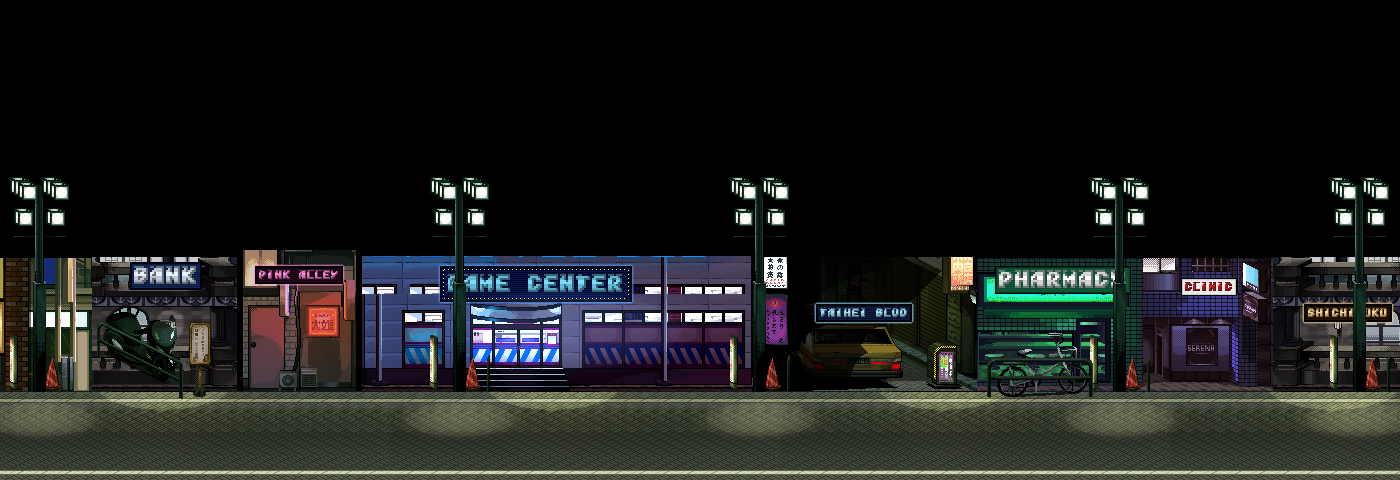
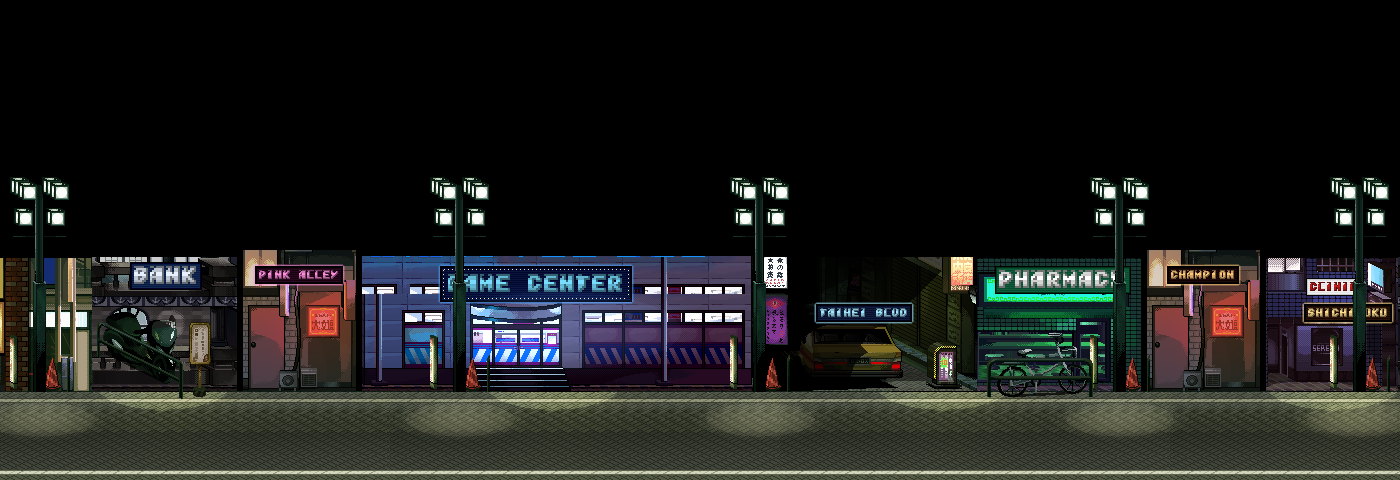
Kamurocho's map from the picture of Yakuza 0's map given for it
tools/build-kamurocho-map.py brings the picture down to the map screen (roads, blocks, West Park and the coloured
buildings, its names left out); the streets' lines follow its roads, with stops where their turnings aren't even;
eighteen numbered names. The Champion District now opens off Senryo Avenue, as on that map.

Claude-Session: https://claude.ai/code/session_01No5GwW2AvnCcQDGrNA3TLc

Changed region(s): [[0.7986, 0.5, 1.0, 0.8125]]

diff --git a/data/kamurocho-street.js b/data/kamurocho-street.js
@@ -33,41 +33,38 @@ window.KAMUROCHO_STREET = {
     grunt: ["This is Tojo turf. Pay up.", "The family don't like strangers."],
     shakedown: ["Hand over your cash, kid.", "Everybody pays Mr. Shakedown."]
   },
-  // The map (the start menu's MAP, ui/game.js realmMap), Yakuza 0's: the town's blocks in grey, its streets dark
-  // between them, West Park in blue at the top, its numbers on it and their names down the side; the street you're
-  // on lit, and you a blinking mark along it, as far along as you've walked. Its points are as on Yakuza 0's map
-  // (a picture of it 561x434, the town in x 60-392, y 45-400; drawn at 0.43). `outline`: the town's edge; `park`
-  // and `buildings` (x0, y0, x1, y1); `legend`: each number, its name, the scene it's of (or none) and where it's
-  // written on the map. Each scene: its line (its picture's left end first) and how wide (`w`, on the screen); a
-  // place inside one (a shop, a bar) is a spot on the line of the street it's off (`at`: that scene, and how far
-  // along it).
+  // The map (the start menu's MAP, ui/game.js realmMap), Yakuza 0's: the picture of its map given for the game,
+  // brought down to the screen (tools/build-kamurocho-map.py: `picture`, its top left where it was cut from the
+  // big one, `crop`, and how much smaller, `scale`), its numbers on it and their names down the side; the street
+  // you're on lit, and you a blinking mark along it, as far along as you've walked; a red flag where the story's
+  // headed. Its points are the big picture's (1514x1039). `legend`: each number, its name, the scene it's of (or
+  // none) and where it's written on the map. Each scene: its line (its picture's left end first), how wide (`w`, on
+  // the screen) and, where its turnings aren't evenly along it, `stops` (how far along its picture, how far along
+  // its line); a place inside one (a shop, a bar) is a spot on the line of the street it's off (`at`).
   map: {
-    outline: [[62, 120], [82, 75], [140, 62], [190, 50], [362, 50], [372, 140], [374, 382], [352, 398], [140, 398], [114, 376], [88, 282], [60, 252]],
-    park: [195, 50, 362, 137],
-    buildings: [[62, 176, 90, 214], [127, 172, 157, 192], [165, 182, 182, 205], [157, 120, 175, 140], [300, 150, 317, 167],
-      [252, 106, 262, 116], [318, 352, 326, 360], [210, 340, 222, 352], [262, 288, 272, 298]],
-    legend: [[1, "Tenkaichi St.", "tenkaichi", [133, 332]], [2, "Nakamichi St.", "nakamichi", [202, 340]], [3, "Theater Alley", "theater-alley", [99, 236]],
-      [4, "Taihei Blvd.", "taihei", [180, 254]], [5, "Theater Square", "theater", [184, 198]], [6, "Shichifuku E.", "shichifuku", [272, 178]],
-      [7, "Shichifuku St.", "shichifuku", [226, 160]], [8, "Shichifuku W.", "shichifuku", [118, 154]], [9, "Hotel District", "hotels", [156, 90]],
-      [10, "West Park", null, [272, 86]], [11, "Kamuro Shopping", "street", [256, 250]], [12, "Empty Lot", "alley", [243, 214]],
-      [13, "Pink Street", "pink", [330, 312]], [14, "Champion Dist.", "champion", [344, 236]], [15, "Showa Street", "showa", [250, 375]],
-      [16, "Senryo Ave.", "senryo", [354, 296]], [17, "Nakamichi Alley", "nakamichi-alley", [160, 344]], [18, "Pink Alley", "pink-alley", [332, 346]]],
+    picture: { image: "assets/kamurocho/map.png", crop: [355, 34], scale: 0.1765, at: [2, 2] },
+    legend: [[1, "Hotel District", "hotels", [470, 220]], [2, "West Park", null, [900, 190]], [3, "Park Blvd.", null, [820, 368]],
+      [4, "Shichifuku St.", "shichifuku", [760, 404]], [5, "Theater Square", "theater", [535, 500]], [6, "Theater Alley", "theater-alley", [440, 520]],
+      [7, "Kamuro Shopping", "street", [700, 500]], [8, "Empty Lot", "alley", [640, 548]], [9, "Little Asia", null, [898, 520]],
+      [10, "Champion Dist.", "champion", [1025, 520]], [11, "Taihei Blvd.", "taihei", [755, 668]], [12, "Tenkaichi St.", "tenkaichi", [545, 800]],
+      [13, "Nakamichi St.", "nakamichi", [660, 800]], [14, "Pink Street", "pink", [818, 780]], [15, "Senryo Ave.", "senryo", [925, 790]],
+      [16, "Showa Street", "showa", [780, 880]], [17, "Nakamichi Alley", "nakamichi-alley", [630, 745]], [18, "Pink Alley", "pink-alley", [895, 745]]],
     scenes: {
-      taihei: { line: [[95, 266], [368, 266]], w: 5 },
-      tenkaichi: { line: [[142, 266], [142, 389]], w: 3 },
-      nakamichi: { line: [[197, 266], [197, 389]], w: 3 },
-      showa: { line: [[142, 389], [368, 389]], w: 3 },
-      pink: { line: [[303, 389], [311, 266], [314, 190]], w: 3 },
-      senryo: { line: [[368, 389], [368, 190]], w: 4 },
-      shichifuku: { line: [[92, 165], [205, 165], [240, 175], [240, 190], [368, 190]], w: 3 },
-      hotels: { line: [[145, 165], [145, 68], [185, 68], [185, 165]], w: 2 },
-      "theater-alley": { line: [[95, 266], [95, 165]], w: 2 },
-      theater: { line: [[168, 262], [168, 178], [228, 178], [228, 222]], w: 2, square: [168, 178, 228, 262] },
-      street: { line: [[268, 266], [268, 198], [246, 205], [240, 212]], w: 2 },
-      alley: { line: [[240, 212], [228, 222]], w: 2 },
-      champion: { line: [[314, 226], [340, 226], [340, 208], [358, 208], [358, 226], [368, 226]], w: 1 },
-      "nakamichi-alley": { line: [[142, 338], [170, 338], [170, 322], [197, 322]], w: 1 },
-      "pink-alley": { line: [[306, 344], [368, 344]], w: 1 },
+      taihei: { line: [[468, 685], [951, 685]], w: 5, stops: [[0, 0], [237, 0.22], [424, 0.26], [800, 0.46], [1346, 0.6], [1742, 0.77], [2100, 1]] },
+      tenkaichi: { line: [[575, 685], [575, 897]], w: 3 },
+      nakamichi: { line: [[691, 685], [691, 897]], w: 3 },
+      showa: { line: [[575, 897], [951, 897]], w: 3, stops: [[0, 0], [374, 0.31], [1140, 0.71], [1560, 1]] },
+      pink: { line: [[843, 897], [843, 685], [843, 417]], w: 3 },
+      senryo: { line: [[951, 897], [951, 417]], w: 4 },
+      shichifuku: { line: [[468, 322], [603, 322], [603, 417], [951, 417]], w: 3 },
+      hotels: { line: [[560, 322], [585, 300], [585, 80], [663, 80], [663, 300], [603, 322]], w: 2 },
+      "theater-alley": { line: [[468, 685], [468, 322]], w: 2 },
+      theater: { line: [[575, 580], [478, 580], [478, 425], [597, 425], [597, 560]], w: 2 },
+      street: { line: [[760, 685], [760, 580], [700, 540], [640, 520]], w: 2 },
+      alley: { line: [[640, 520], [610, 545]], w: 2 },
+      champion: { line: [[951, 500], [1000, 500], [1000, 450], [1060, 450], [1060, 560], [1100, 560]], w: 1 },
+      "nakamichi-alley": { line: [[575, 812], [630, 812], [630, 770], [691, 770]], w: 1 },
+      "pink-alley": { line: [[843, 760], [900, 760], [900, 796], [951, 796]], w: 1 },
       blend: { at: ["nakamichi", 0.06], title: "Cafe Blend" }, namase: { at: ["shichifuku", 0.92] }, heroine: { at: ["theater", 0.94] }, toko: { at: ["nakamichi", 0.54] }, kazama: { at: ["shichifuku", 0.47] }, tachibana: { at: ["showa", 0.94], title: "Tachibana Real Estate" }, poppo: { at: ["street", 0.24] }, backlot: { at: ["street", 0.17] }, sewer: { at: ["street", 0.17] }, bacchus: { at: ["street", 0.97] }
     }
   },
@@ -213,8 +210,7 @@ window.KAMUROCHO_STREET = {
       exits: [{ edge: "left", to: "showa", x: 1140, y: 440, facing: "down" },
         { edge: "right", to: "shichifuku", x: 1091, y: 440, facing: "down" },
         { spot: [374, 462, 410, 426], to: "pink-alley", x: 30, y: 440, facing: "right", text: "Pink Alley" },
-        { spot: [786, 991, 410, 426], to: "taihei", x: 1742, y: 440, facing: "down", text: "Taihei Boulevard" },
-        { spot: [1145, 1252, 410, 426], to: "champion", x: 30, y: 444, facing: "right", text: "Champion District" }],
+        { spot: [786, 991, 410, 426], to: "taihei", x: 1742, y: 440, facing: "down", text: "Taihei Boulevard" }],
       people: [
         { script: "Kamurocho_PinkTout", sprite: "host_idle", x: 160, y: 418, face: "right",
           text: ["Cabaret Bijin! First drink's\non the house!", "...The second one's 8,000 yen."] },
@@ -229,8 +225,9 @@ window.KAMUROCHO_STREET = {
     champion: {
       title: "Champion District", image: "assets/kamurocho/champion.png", width: 900,
       floor: [[0, 414], [900, 414], [900, 466], [0, 466]],
-      exits: [{ edge: "left", to: "pink", x: 1198, y: 440, facing: "down" },
-        { edge: "right", to: "senryo", x: 1160, y: 440, facing: "down" }],
+      // (its lanes, east of Senryo Avenue: in from it, and out at its far end back onto it)
+      exits: [{ edge: "left", to: "senryo", x: 1203, y: 440, facing: "down" },
+        { edge: "right", to: "senryo", x: 1320, y: 440, facing: "down" }],
       people: [
         { script: "Kamurocho_BarHopper", sprite: "drunk_idle", walk: "drunk_idle_walk", range: 60, x: 220, y: 446, face: "right",
           text: ["Fifty bars, three seats each.\nI've sat in every one.", "*hic* ...Twice."] },
@@ -292,7 +289,8 @@ window.KAMUROCHO_STREET = {
       exits: [{ edge: "left", to: "showa", x: 1530, y: 440, facing: "left" },
         { edge: "right", to: "shichifuku", x: 1370, y: 440, facing: "left" },
         { spot: [243, 356, 410, 426], to: "pink-alley", x: 770, y: 440, facing: "left", text: "Pink Alley" },
-        { spot: [762, 967, 410, 426], to: "taihei", x: 2070, y: 440, facing: "left", text: "Taihei Boulevard" }],
+        { spot: [762, 967, 410, 426], to: "taihei", x: 2070, y: 440, facing: "left", text: "Taihei Boulevard" },
+        { spot: [1150, 1257, 410, 426], to: "champion", x: 30, y: 444, facing: "right", text: "Champion District" }],
       people: [
         { script: "Kamurocho_Banker", sprite: "salaryman_idle", walk: "salaryman_idle_walk", range: 80, x: 180, y: 446, face: "right",
           text: ["The banks on Senryo lend to\nanyone with land to sell.", "The whole country's buying.\nIt can't ever stop."] },

diff --git a/ui/game.js b/ui/game.js
@@ -10163,10 +10163,19 @@
   // Kamurocho's map (the start menu's MAP; KAMUROCHO_STREET.map), as Yakuza 0's: the grey town, its streets dark
   // through it, West Park blue, its numbers and their names down the side; the street you're on lit, and you a
   // blinking mark along it as far as you've walked; a red flag where the story's headed. A or B closes it.
+  let realmMapPixels = null;
   async function realmMap() {
     const K = window.KAMUROCHO_STREET, Mp = K.map.scenes, ov = $("#overlay"), loc = player.location.street || K.arrive;
     const here = Mp[loc.scene] && Mp[loc.scene].at ? Mp[loc.scene].at[0] : loc.scene;
-    const frac = Mp[loc.scene] && Mp[loc.scene].at ? Mp[loc.scene].at[1] : Math.max(0, Math.min(1, loc.x / ((K.scenes[loc.scene] || {}).width || 1)));
+    // (how far along its line: by its `stops` if it has them, else as far as across its picture)
+    const frac = (() => {
+      if (Mp[loc.scene] && Mp[loc.scene].at) return Mp[loc.scene].at[1];
+      const t = Math.max(0, Math.min(1, loc.x / ((K.scenes[loc.scene] || {}).width || 1))), st = (Mp[loc.scene] || {}).stops;
+      if (!st) return t;
+      const x = t * K.scenes[loc.scene].width;
+      for (let i = 1; i < st.length; i++) if (x <= st[i][0] || i === st.length - 1) return st[i - 1][1] + (st[i][1] - st[i - 1][1]) * Math.max(0, Math.min(1, (x - st[i - 1][0]) / ((st[i][0] - st[i - 1][0]) || 1)));
+      return t;
+    })();
     // (a point that far along a line)
     const along = (line, t) => {
       const seg = line.slice(1).map((p, i) => Math.hypot(p[0] - line[i][0], p[1] - line[i][1])), total = seg.reduce((x, y) => x + y, 0);
@@ -10174,29 +10183,19 @@
       for (let i = 0; i < seg.length; i++) { if (d <= seg[i] || i === seg.length - 1) { const k = seg[i] ? d / seg[i] : 0; return [line[i][0] + (line[i + 1][0] - line[i][0]) * k, line[i][1] + (line[i + 1][1] - line[i][1]) * k]; } d -= seg[i]; }
       return line[0];
     };
-    // (Yakuza 0's map's points, on the screen: the town at the left, its legend down the right)
-    const T = ([x, y]) => [2 + (x - 60) * 0.43, 2 + (y - 45) * 0.43];
+    // (the map's picture, its pixels read once (tools/build-kamurocho-map.py's), and its points on the screen)
+    const Pic = K.map.picture, T = ([x, y]) => [Pic.at[0] + (x - Pic.crop[0]) * Pic.scale, Pic.at[1] + (y - Pic.crop[1]) * Pic.scale];
+    if (!realmMapPixels) {
+      const img = await new Promise((res) => { const i = new Image(); i.onload = () => res(i); i.onerror = () => res(null); i.src = Pic.image; });
+      if (img) { const c = document.createElement("canvas"); c.width = img.width; c.height = img.height; const g = c.getContext("2d"); g.drawImage(img, 0, 0); realmMapPixels = g.getImageData(0, 0, img.width, img.height); }
+    }
     const draw = (blink) => {
-      const sf = GbaMenus.Surface(), W = [248, 248, 248], INK = [36, 32, 52];
+      const sf = GbaMenus.Surface(), W = [248, 248, 248], INK = [36, 32, 52], ROAD = [62, 64, 74];
       sf.fill(0, 0, 240, 160, INK);
-      // (the town: its outline filled grey, the blocks' faint edges across it)
-      const poly = K.map.outline.map(T);
-      for (let y = 0; y < 160; y++) {
-        const xs = [];
-        for (let i = 0, j = poly.length - 1; i < poly.length; j = i++) {
-          const [xi, yi] = poly[i], [xj, yj] = poly[j];
-          if ((yi > y + 0.5) !== (yj > y + 0.5)) xs.push(xi + (y + 0.5 - yi) * (xj - xi) / (yj - yi));
-        }
-        xs.sort((p, q) => p - q);
-        for (let k = 0; k + 1 < xs.length; k += 2) {
-          const x0 = Math.round(xs[k]), x1 = Math.round(xs[k + 1]);
-          sf.fill(x0, y, x1 - x0, 1, y % 7 === 3 ? [168, 168, 180] : [190, 190, 200]);
-          for (let x = x0 + ((y * 3) % 9); x < x1; x += 9) sf.put(x, y, [168, 168, 180]);
-        }
+      if (realmMapPixels) {
+        const { width: pw, height: ph, data } = realmMapPixels;
+        for (let y = 0; y < ph; y++) for (let x = 0; x < pw; x++) { const i = (y * pw + x) * 4; if (data[i + 3] > 128) sf.put(Pic.at[0] + x, Pic.at[1] + y, [data[i], data[i + 1], data[i + 2]]); }
       }
-      const rect = (r, col) => { const [x0, y0] = T([r[0], r[1]]), [x1, y1] = T([r[2], r[3]]); sf.fill(Math.round(x0), Math.round(y0), Math.round(x1 - x0), Math.round(y1 - y0), col); };
-      rect(K.map.park, [120, 200, 248]);
-      for (const r of K.map.buildings) rect(r, [176, 144, 220]);
       const road = (line, w, col) => {
         const pts = line.map(T);
         for (let i = 1; i < pts.length; i++) {
@@ -10204,27 +10203,22 @@
           for (let k = 0; k <= n; k++) { const x = Math.round(x0 + (x1 - x0) * k / n), y = Math.round(y0 + (y1 - y0) * k / n); sf.fill(x - (w >> 1), y - (w >> 1), w, w, col); }
         }
       };
-      // (Theater Square, the open square: paler, the fountain's ring at its middle)
-      for (const m of Object.values(Mp)) if (m.square) {
-        rect(m.square, [208, 208, 216]);
-        const [cx, cy] = T([(m.square[0] + m.square[2]) / 2, (m.square[1] + m.square[3]) / 2]).map(Math.round);
-        sf.fill(cx - 1, cy - 2, 3, 1, [140, 140, 156]); sf.fill(cx - 1, cy + 2, 3, 1, [140, 140, 156]); sf.fill(cx - 2, cy - 1, 1, 3, [140, 140, 156]); sf.fill(cx + 2, cy - 1, 1, 3, [140, 140, 156]);
-      }
-      for (const m of Object.values(Mp)) if (m.line) road(m.line, m.w + 2, [56, 56, 70]);
-      for (const [id, m] of Object.entries(Mp)) if (m.line) road(m.line, m.w, id === here ? [248, 200, 64] : [86, 86, 102]);
+      // (every street's road drawn over the picture again, so none's broken where its name was written; the one you're
+      // on lit)
+      for (const [id, m] of Object.entries(Mp)) if (m.line) road(m.line, m.w, id === here ? [248, 200, 64] : ROAD);
       // (the numbers on it, and their names down the side: where you are in yellow)
       K.map.legend.forEach(([n, name, id, at], k) => {
         const [x, y] = T(at).map(Math.round), t = String(n), on = id && id === here;
         sf.text(t, x - (sf.textWidth(t, "small") >> 1), y - 5, on ? [255, 224, 120] : W, INK, "small");
-        sf.text(t, 150 + (n < 10 ? 5 : 0), 1 + k * 8, on ? [255, 224, 120] : [200, 200, 220], INK, "small");
-        sf.text(name, 162, 1 + k * 8, on ? [255, 224, 120] : W, INK, "small");
+        sf.text(t, 138 + (n < 10 ? 5 : 0), 1 + k * 8, on ? [255, 224, 120] : [200, 200, 220], INK, "small");
+        sf.text(name, 150, 1 + k * 8, on ? [255, 224, 120] : W, INK, "small");
       });
       // (where the story's headed, Heroine: a red flag on it, its name along the bottom)
       const wp = player.flags.kamurochoWaypoint, wm = wp && Mp[wp];
       if (wm) {
         const [wx, wy] = T(wm.at ? along(Mp[wm.at[0]].line, wm.at[1]) : along(wm.line, 0.5)).map(Math.round);
         sf.fill(wx, wy - 12, 1, 12, [240, 240, 240]); sf.fill(wx + 1, wy - 12, 6, 4, [232, 48, 48]); sf.fill(wx + 1, wy - 8, 4, 1, [232, 48, 48]);
-        sf.text("\u25b6 " + ((K.scenes[wp] || {}).title || wm.title || wp), 150, 148, [255, 120, 120], INK, "small");
+        sf.text("\u25b6 " + ((K.scenes[wp] || {}).title || wm.title || wp), 138, 148, [255, 120, 120], INK, "small");
       }
       if (Mp[here] && Mp[here].line && blink) {
         const [x, y] = T(along(Mp[here].line, frac)).map(Math.round);

diff --git a/tools/build-kamurocho-map.py b/tools/build-kamurocho-map.py
@@ -1,0 +1,83 @@
+#!/usr/bin/env python3
+# Kamurocho's map picture (the start menu's MAP, ui/game.js realmMap), from the picture of Yakuza 0's map given for
+# the game (assets/kamurocho/map-source.webp): the town cut out of it and brought down to the map screen's size, a
+# pixel at a time by what most of the picture under it is (a road, a block, West Park, a big building, purple,
+# orange or yellow), the names written on it left out (they're drawn over it again, in the game's own letters).
+#
+#   python3 tools/build-kamurocho-map.py
+#
+# Writes assets/kamurocho/map.png; KAMUROCHO_STREET.map.picture says where it goes on the screen, and its scale.
+import os
+import numpy as np
+from PIL import Image
+
+ROOT = os.path.join(os.path.dirname(os.path.abspath(__file__)), '..')
+SRC = os.path.join(ROOT, 'assets/kamurocho/map-source.webp')
+OUT = os.path.join(ROOT, 'assets/kamurocho/map.png')
+CROP = (355, 34, 1117, 919)      # (the town, in the picture)
+SCALE = 0.1765                   # (the screen's pixels to the picture's: the town 156 high)
+COLOURS = {1: (62, 64, 74), 2: (176, 178, 182), 3: (100, 196, 246), 4: (180, 150, 236), 5: (232, 168, 86), 6: (236, 222, 140)}
+
+def kind(c):
+    r, g, b = c
+    if max(c) < 30: return 0                                   # (outside the town, or a name's dark edge)
+    if min(c) > 225: return -1                                 # (a name's letters)
+    if b > 200 and r < 140 and g > 150: return 3              # (West Park)
+    if b > 200 and r > 150 and g < 190: return 4               # (purple)
+    if r > 200 and 130 < g < 200 and b < 140: return 5         # (orange)
+    if r > 200 and g > 200 and b < 180: return 6               # (yellow)
+    if max(c) < 110: return 1                                  # (a road)
+    return 2                                                   # (a block)
+
+def main():
+    im = np.array(Image.open(SRC).convert('RGB').crop(CROP)).astype(int)
+    h, w = im.shape[:2]
+    W, H = round(w * SCALE), round(h * SCALE)
+    kinds = np.zeros((h, w), int)
+    for y in range(h):
+        for x in range(w): kinds[y, x] = kind(tuple(im[y, x]))
+    # (the dark outside the town: the near-black flooded in from the picture's edge; any other near-black is a
+    # name's dark edge, written over the town, and goes the way of its letters)
+    from collections import deque
+    outside = np.zeros((h, w), bool); todo = deque([(0, 0), (w - 1, 0), (0, h - 1), (w - 1, h - 1)])
+    while todo:
+        x, y = todo.popleft()
+        if not (0 <= x < w and 0 <= y < h) or outside[y, x] or kinds[y, x] != 0: continue
+        outside[y, x] = True; todo.extend(((x + 1, y), (x - 1, y), (x, y + 1), (x, y - 1)))
+    kinds[(kinds == 0) & ~outside] = -1
+    # (and the dark outline round each name's letters: a few pixels about every white one)
+    white = kinds == -1
+    ring = white.copy()
+    for dy in range(-6, 7):
+        for dx in range(-6, 7):
+            if dx * dx + dy * dy <= 36: ring |= np.roll(np.roll(white, dy, 0), dx, 1)
+    kinds[ring] = -1
+    out = np.zeros((H, W), int)
+    for Y in range(H):
+        for X in range(W):
+            cell = kinds[int(Y / SCALE):int((Y + 1) / SCALE), int(X / SCALE):int((X + 1) / SCALE)].ravel()
+            votes = np.bincount(cell[cell > 0], minlength=7) if (cell > 0).any() else None
+            if votes is None: out[Y, X] = 0 if (cell == 0).sum() > cell.size * 0.6 else -1
+            else:
+                # (a road wins its cell if a good part of it is road: they're thin at this size)
+                out[Y, X] = 1 if votes[1] > 0.4 * votes.sum() else int(votes.argmax())
+    # (a cell that was all a name's letters: what's round it)
+    for _ in range(6):
+        for Y in range(H):
+            for X in range(W):
+                if out[Y, X] == -1:
+                    n = [out[j, i] for j, i in ((Y - 1, X), (Y + 1, X), (Y, X - 1), (Y, X + 1)) if 0 <= j < H and 0 <= i < W and out[j, i] > 0]
+                    if n: out[Y, X] = max(set(n), key=n.count)
+    # (a lone pixel of road in a block, from the block's own faint lines: the block)
+    for Y in range(1, H - 1):
+        for X in range(1, W - 1):
+            if out[Y, X] == 1 and sum(out[j, i] == 1 for j, i in ((Y - 1, X), (Y + 1, X), (Y, X - 1), (Y, X + 1))) <= 1: out[Y, X] = 2
+    pic = Image.new('RGBA', (W, H), (0, 0, 0, 0)); px = pic.load()
+    for Y in range(H):
+        for X in range(W):
+            if out[Y, X] > 0: px[X, Y] = COLOURS[out[Y, X]] + (255,)
+    pic.save(OUT, optimize=True)
+    print('map: %dx%d' % (W, H))
+
+if __name__ == '__main__':
+    main()

diff --git a/tools/build-kamurocho-streets.py b/tools/build-kamurocho-streets.py
@@ -22,13 +22,13 @@
 #                       Square, Nakamichi Street, the Kamuro Shopping Area and Pink Street, a pachinko hall
 #   Tenkaichi Street    south from the gate to Showa Street, its eating places, the way into Nakamichi Alley
 #   Nakamichi Street    beside it: a hostess club, bars, the way into Nakamichi Alley
-#   Pink Street         north from Showa Street across Taihei to Shichifuku: its clubs in pink neon, Pink Alley,
-#                       the lane to the Champion District
+#   Pink Street         north from Showa Street across Taihei to Shichifuku: its clubs in pink neon, Pink Alley
 #   Champion District   lanes of bars no bigger than a closet, wires overhead, their lanterns and signboards
 #   Theater Square      the open square in the north: the Kamuro Theater's arcade and marquee, its lamps
 #   Showa Street        along the south: sushi, a discount store, mahjong, real estate; the feet of Nakamichi
 #                       and Pink Street
-#   Senryo Avenue       along the east: a bank, Pink Alley, a game centre, Taihei's end, a pharmacy, a clinic
+#   Senryo Avenue       along the east: a bank, Pink Alley, a game centre, Taihei's end, a pharmacy, the Champion
+#                       District, a clinic
 #   Hotel District      love hotels in bulbs, violet light, a car park
 #   Shichifuku Street   across the north: its sign, oden, the Hotel District, an izakaya, the lane to Theater
 #                       Square, a pawn shop, ramen, Pink Street's top, the construction site
@@ -342,7 +342,8 @@ def pink(P, atlas):
     turn(S, 'pink', tint(P['taxi'], (255, 120, 210), 0.3), 'TAIHEI BLVD', *BLUE)
     S.bay(pinkify(P['serena']))
     S.x += 6
-    turn(S, 'pink', P['reddoor'], 'CHAMPION', (30, 10, 10), (255, 200, 120), at=262, gap=6)
+    x = S.bay(P['reddoor'], 6)     # (a snack bar's back door: the Champion District's off Senryo Avenue)
+    S.at(neon(board(atlas, 'SNACK', (30, 10, 10), (255, 200, 120), 1), (255, 140, 80)), x + 36, 262)
     S.fill(pinkify(P['block']), mirror(pinkify(P['steak'])))
     S.at(neon(board(atlas, 'SHICHIFUKU', *GOLD, 1), GOLD[1]), 1340, 300)
     for nx in (240, 560, 760, 1100, 1300):
@@ -447,6 +448,8 @@ def senryo(P, atlas):
     turn(S, 'senryo', P['taxi'], 'TAIHEI BLVD', *BLUE)
     x = S.bay(hue(P['fujibashi'], 80, 1.0))
     S.at(board(atlas, 'PHARMACY', (20, 90, 60), (255, 255, 255), 2), x + 18, 266)
+    S.x += 6
+    turn(S, 'senryo', P['reddoor'], 'CHAMPION', (30, 10, 10), (255, 200, 120), at=262, gap=6)   # (the lanes of the Champion District)
     x = S.bay(hue(P['serena'], 140, 0.7, 1.1))
     S.at(board(atlas, 'CLINIC', (240, 240, 240), (200, 30, 30), 1), x + 40, 278)
     S.fill(mirror(hue(P['arcade'], 140, 0.6, 0.8)), P['block'], hue(P['shadow'], 140, 0.6))

diff --git a/README.md b/README.md
@@ -3892,15 +3892,18 @@ taken from a Dragon Quest cartridge.
   any other box, an empty one too; you always fight), **Points** (stat points to put in), and at the Time Machine
   **Leave** (to wait there) or, on an empty box, **Bring** (one who waits there). **Rest** at the Time Machine heals
   everyone. Saved as `flags.realmParty[realm]` = { party, reserve, stored, items }.
-- **The map** (the start menu's MAP in Kamurocho; `KAMUROCHO_STREET.map`): Yakuza 0's, laid out from a picture of
-  its map: the grey town and its purple buildings, its streets dark through it, West Park blue at the top, numbers
-  1-18 on it and their names down the side (Tenkaichi Street to Pink Alley); the street you're on lit in yellow
-  (its name too), you a blinking mark along it, a red flag where the story's headed. The streets join as that map
-  has them: Taihei Boulevard across the middle; Tenkaichi, Nakamichi and Pink Street south off it to Showa Street,
-  Nakamichi Alley between the first two; Theater Square, the Kamuro Shopping Area (the street) and the Empty Lot
-  north of it; Pink Street on north to Shichifuku Street, the Champion District off it; Senryo Avenue up the east,
-  Theater Alley up the west, Shichifuku Street across the top and the Hotel District above it. Every turning has
-  its board over it, naming where it goes.
+- **The map** (the start menu's MAP in Kamurocho; `KAMUROCHO_STREET.map`): the picture of Yakuza 0's map given for
+  the game (`assets/kamurocho/map-source.webp`), brought down to the screen by `tools/build-kamurocho-map.py` (each
+  pixel what most of the picture under it is: road, block, West Park, the coloured buildings; the names written on
+  it left out), every street's road drawn back over it; numbers 1-18 on it and their names down the side (Hotel
+  District to Pink Alley, West Park, Park Boulevard and Little Asia among them); the street you're on lit in yellow
+  (its name too), you a blinking mark along it (where a street's turnings aren't evenly spread, its `stops` say how
+  far along its line each is), a red flag where the story's headed. The streets join as that map has them: Taihei
+  Boulevard across the middle; Tenkaichi, Nakamichi and Pink Street south off it to Showa Street, Nakamichi Alley
+  between the first two; Theater Square, the Kamuro Shopping Area and the Empty Lot north of it; Pink Street on north
+  to Shichifuku Street; Senryo Avenue up the east, the Champion District's lanes off it; Theater Alley up the west,
+  Shichifuku Street across the top and the Hotel District above it. Every turning has its board over it, naming
+  where it goes.
 - **Pokémon out of their realm**: at the Kamurocho Time Machine, **Pokémon** brings one of your party Pokémon into
   the realm's party (as anyone joins: fighting, reserve or the Time Machine), or sends one back. It
   fights by the Ultimax system's rules (`Ultimax.pokemon` in `engine/battle.js`):
